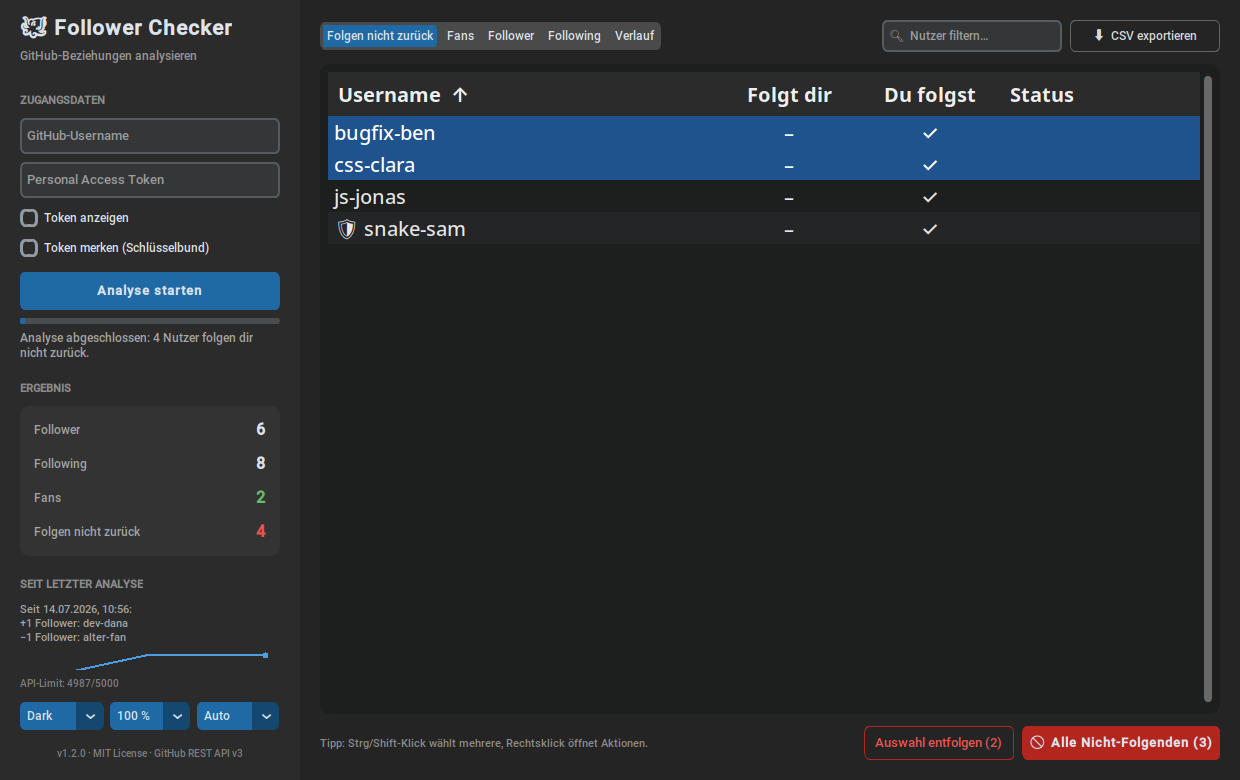
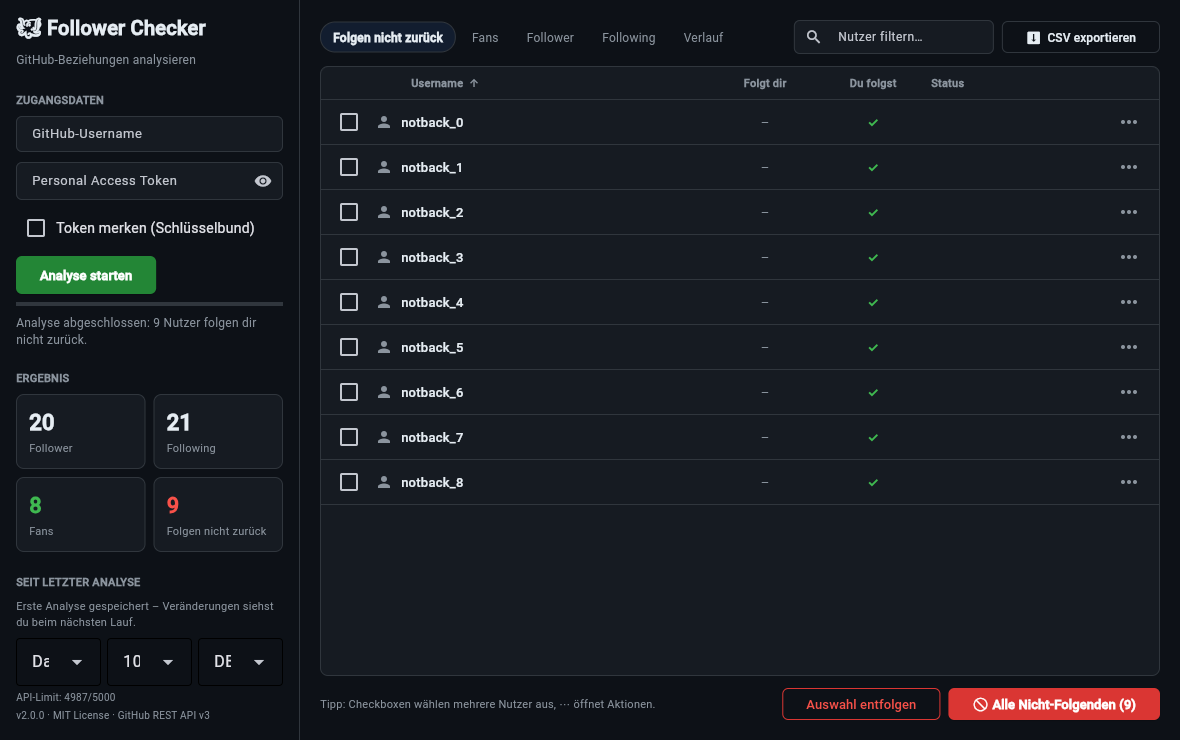
chore(release): v2.0.0 – Flet-Redesign, Changelog, READMEs, Screenshots
Version auf 2.0.0 angehoben (gfc_core.py, pyproject.toml), CHANGELOG-Eintrag
ergänzt (Unveröffentlicht-Rate-Limit-Notiz eingefaltet), READMEs auf Flet
umgestellt (Python 3.10+, libmpv-Troubleshooting, neue englische
Troubleshooting-Sektion) und frische Screenshots der echten Flet-GUI
(DE/EN) erzeugt.

diff --git a/gfc_core.py b/gfc_core.py
@@ -16,7 +16,7 @@ from typing import Callable, Optional, Set
 
 import requests
 
-__version__ = "1.2.0"
+__version__ = "2.0.0"
 
 KEYRING_SERVICE = "github-follower-checker"
 

diff --git a/README.en.md b/README.en.md
@@ -4,14 +4,14 @@
 
 [Deutsch](README.md) · **English**
 
-[![Python](https://img.shields.io/badge/Python-3.9%2B-3776AB?style=flat&logo=python&logoColor=white)](https://www.python.org/)
+[![Python](https://img.shields.io/badge/Python-3.10%2B-3776AB?style=flat&logo=python&logoColor=white)](https://www.python.org/)
 [![CI](https://github.com/0xGI0/GitHub-Follower-Checker/actions/workflows/ci.yml/badge.svg)](https://github.com/0xGI0/GitHub-Follower-Checker/actions/workflows/ci.yml)
 [![License: MIT](https://img.shields.io/badge/License-MIT-yellow.svg)](LICENSE)
 
 Desktop tool for analyzing your **GitHub follower/following relationships** –
-with a modern CustomTkinter interface, a sortable results table, CSV export
-and optional **unfollowing**: everyone who doesn't follow you back with one
-click, or precisely the users you select.
+with a modern Flet interface in a GitHub look, a sortable results table, CSV
+export and optional **unfollowing**: everyone who doesn't follow you back with
+one click, or precisely the users you select.
 
 ---
 
@@ -23,7 +23,7 @@ click, or precisely the users you select.
 
 ## ✨ Features
 
-* **Modern GUI** (CustomTkinter, dark mode by default, switchable to light)
+* **Modern GUI** (Flet, GitHub look, dark mode by default, switchable to light)
 * **Bilingual (English/German)**: follows your system language,
   switchable via the language menu in the bottom-left corner (Auto/DE/EN)
 * **HiDPI-ready**: display scaling is detected automatically, zoom
@@ -60,7 +60,7 @@ click, or precisely the users you select.
 **Easiest:** grab a prebuilt binary (no Python required) from the
 [releases page](https://github.com/0xGI0/GitHub-Follower-Checker/releases).
 
-**From source** (Python 3.9+):
+**From source** (Python 3.10+):
 
 ```bash
 git clone https://github.com/0xGI0/GitHub-Follower-Checker.git
@@ -128,6 +128,19 @@ supports `--version` and `--quiet`.
   the whitelist contain **usernames only**, never credentials.
 * The tool respects GitHub rate limits by pausing between requests and
   shows when the limit resets.
+
+---
+
+## 🐛 Troubleshooting
+
+| Problem | Cause / fix |
+|---|---|
+| "Token invalid or expired" | Check the token, regenerate if needed; requires the `user:follow` scope |
+| "GitHub rate limit reached" | Wait until the shown time, then retry |
+| "GitHub API error (HTTP 404)" | Check the username – does the account exist? |
+| "No connection to the GitHub API" | Check your internet connection / firewall |
+| GUI doesn't start | Run `pip install -r requirements.txt` and start it from a terminal |
+| GUI doesn't start on Linux (`libmpv` error) | Flet needs `libmpv` on some distros: Fedora `sudo dnf install mpv-libs`, Debian/Ubuntu `sudo apt install libmpv2` |
 
 ---
 

diff --git a/CHANGELOG.md b/CHANGELOG.md
@@ -4,12 +4,25 @@ Alle nennenswerten Änderungen an diesem Projekt werden hier dokumentiert.
 Das Format orientiert sich an [Keep a Changelog](https://keepachangelog.com/de/),
 die Versionierung an [SemVer](https://semver.org/lang/de/).
 
-## [Unveröffentlicht]
+## [2.0.0] – 2026-07-18
 
 ### Geändert
-
+- **Komplett neue Oberfläche:** GUI von CustomTkinter auf Flet umgestellt –
+  GitHub-Look (Dark/Light), Stat-Karten, Tab-Pills, Nutzerliste mit Avataren
+  und ⋯-Aktionsmenü, Verlauf als Timeline.
+- Kernlogik in `gfc_core.py` und `gfc_controller.py` ausgelagert; CLI
+  unverändert nutzbar.
+- „Token anzeigen“ ist jetzt das Augen-Symbol im Token-Feld; das
+  Rechtsklick-Menü wurde durch das ⋯-Menü pro Zeile ersetzt.
 - Pause zwischen Folgen/Entfolgen-Requests von 1 s auf 2 s erhöht –
-  konservativer gegenüber GitHubs Sekundär-Rate-Limits
+  konservativer gegenüber GitHubs Sekundär-Rate-Limits.
+
+### Entfernt
+- Abhängigkeiten `customtkinter` und `pillow` (ersetzt durch `flet`).
+
+### Hinweise
+- Einstellungen, Verlauf und Keyring-Token bleiben erhalten (gleiche Pfade).
+- Python ≥ 3.10 erforderlich.
 
 ## [1.2.0] – 2026-07-18
 

diff --git a/README.md b/README.md
@@ -4,13 +4,13 @@
 
 **Deutsch** · [English](README.en.md)
 
-[![Python](https://img.shields.io/badge/Python-3.9%2B-3776AB?style=flat&logo=python&logoColor=white)](https://www.python.org/)
+[![Python](https://img.shields.io/badge/Python-3.10%2B-3776AB?style=flat&logo=python&logoColor=white)](https://www.python.org/)
 [![CI](https://github.com/0xGI0/GitHub-Follower-Checker/actions/workflows/ci.yml/badge.svg)](https://github.com/0xGI0/GitHub-Follower-Checker/actions/workflows/ci.yml)
 [![License: MIT](https://img.shields.io/badge/License-MIT-yellow.svg)](LICENSE)
 [![GitHub Stars](https://img.shields.io/github/stars/0xGI0/GitHub-Follower-Checker?style=flat)](https://github.com/0xGI0/GitHub-Follower-Checker/stargazers)
 
 Desktop-Tool zum Analysieren deiner **GitHub-Follower/Following-Beziehungen** – mit moderner
-CustomTkinter-Oberfläche, sortierbarer Ergebnistabelle, CSV-Export und optionalem
+Flet-Oberfläche im GitHub-Look, sortierbarer Ergebnistabelle, CSV-Export und optionalem
 **Entfolgen**: alle Nutzer, die dir nicht zurückfolgen, auf einen Klick – oder
 gezielt einzelne ausgewählte Nutzer.
 
@@ -24,7 +24,7 @@ gezielt einzelne ausgewählte Nutzer.
 
 ## ✨ Features
 
-* **Moderne GUI** (CustomTkinter, Dark Mode als Standard, Light Mode umschaltbar)
+* **Moderne GUI** (Flet, GitHub-Look, Dark Mode als Standard, Light Mode umschaltbar)
 * **Zweisprachig (Deutsch/Englisch)**: folgt automatisch der Systemsprache,
   umstellbar über das Sprachmenü unten links (Auto/DE/EN)
 * **HiDPI-tauglich**: Display-Skalierung wird automatisch erkannt,
@@ -79,7 +79,7 @@ gezielt einzelne ausgewählte Nutzer.
 [Releases-Seite](https://github.com/0xGI0/GitHub-Follower-Checker/releases) –
 einfach herunterladen und starten.
 
-**Aus dem Quellcode** (Python 3.9+):
+**Aus dem Quellcode** (Python 3.10+):
 
 ```bash
 git clone https://github.com/0xGI0/GitHub-Follower-Checker.git
@@ -169,6 +169,7 @@ kennt außerdem `--version` und `--quiet`.
 | „GitHub-API-Fehler (HTTP 404)" | Username prüfen – existiert der Account? |
 | „Keine Verbindung zur GitHub-API" | Internetverbindung / Firewall prüfen |
 | GUI startet nicht | `pip install -r requirements.txt` ausführen und im Terminal starten |
+| GUI startet unter Linux nicht (Fehler wegen `libmpv`) | Flet benötigt auf manchen Distributionen `libmpv`: Fedora `sudo dnf install mpv-libs`, Debian/Ubuntu `sudo apt install libmpv2` |
 
 ---
 